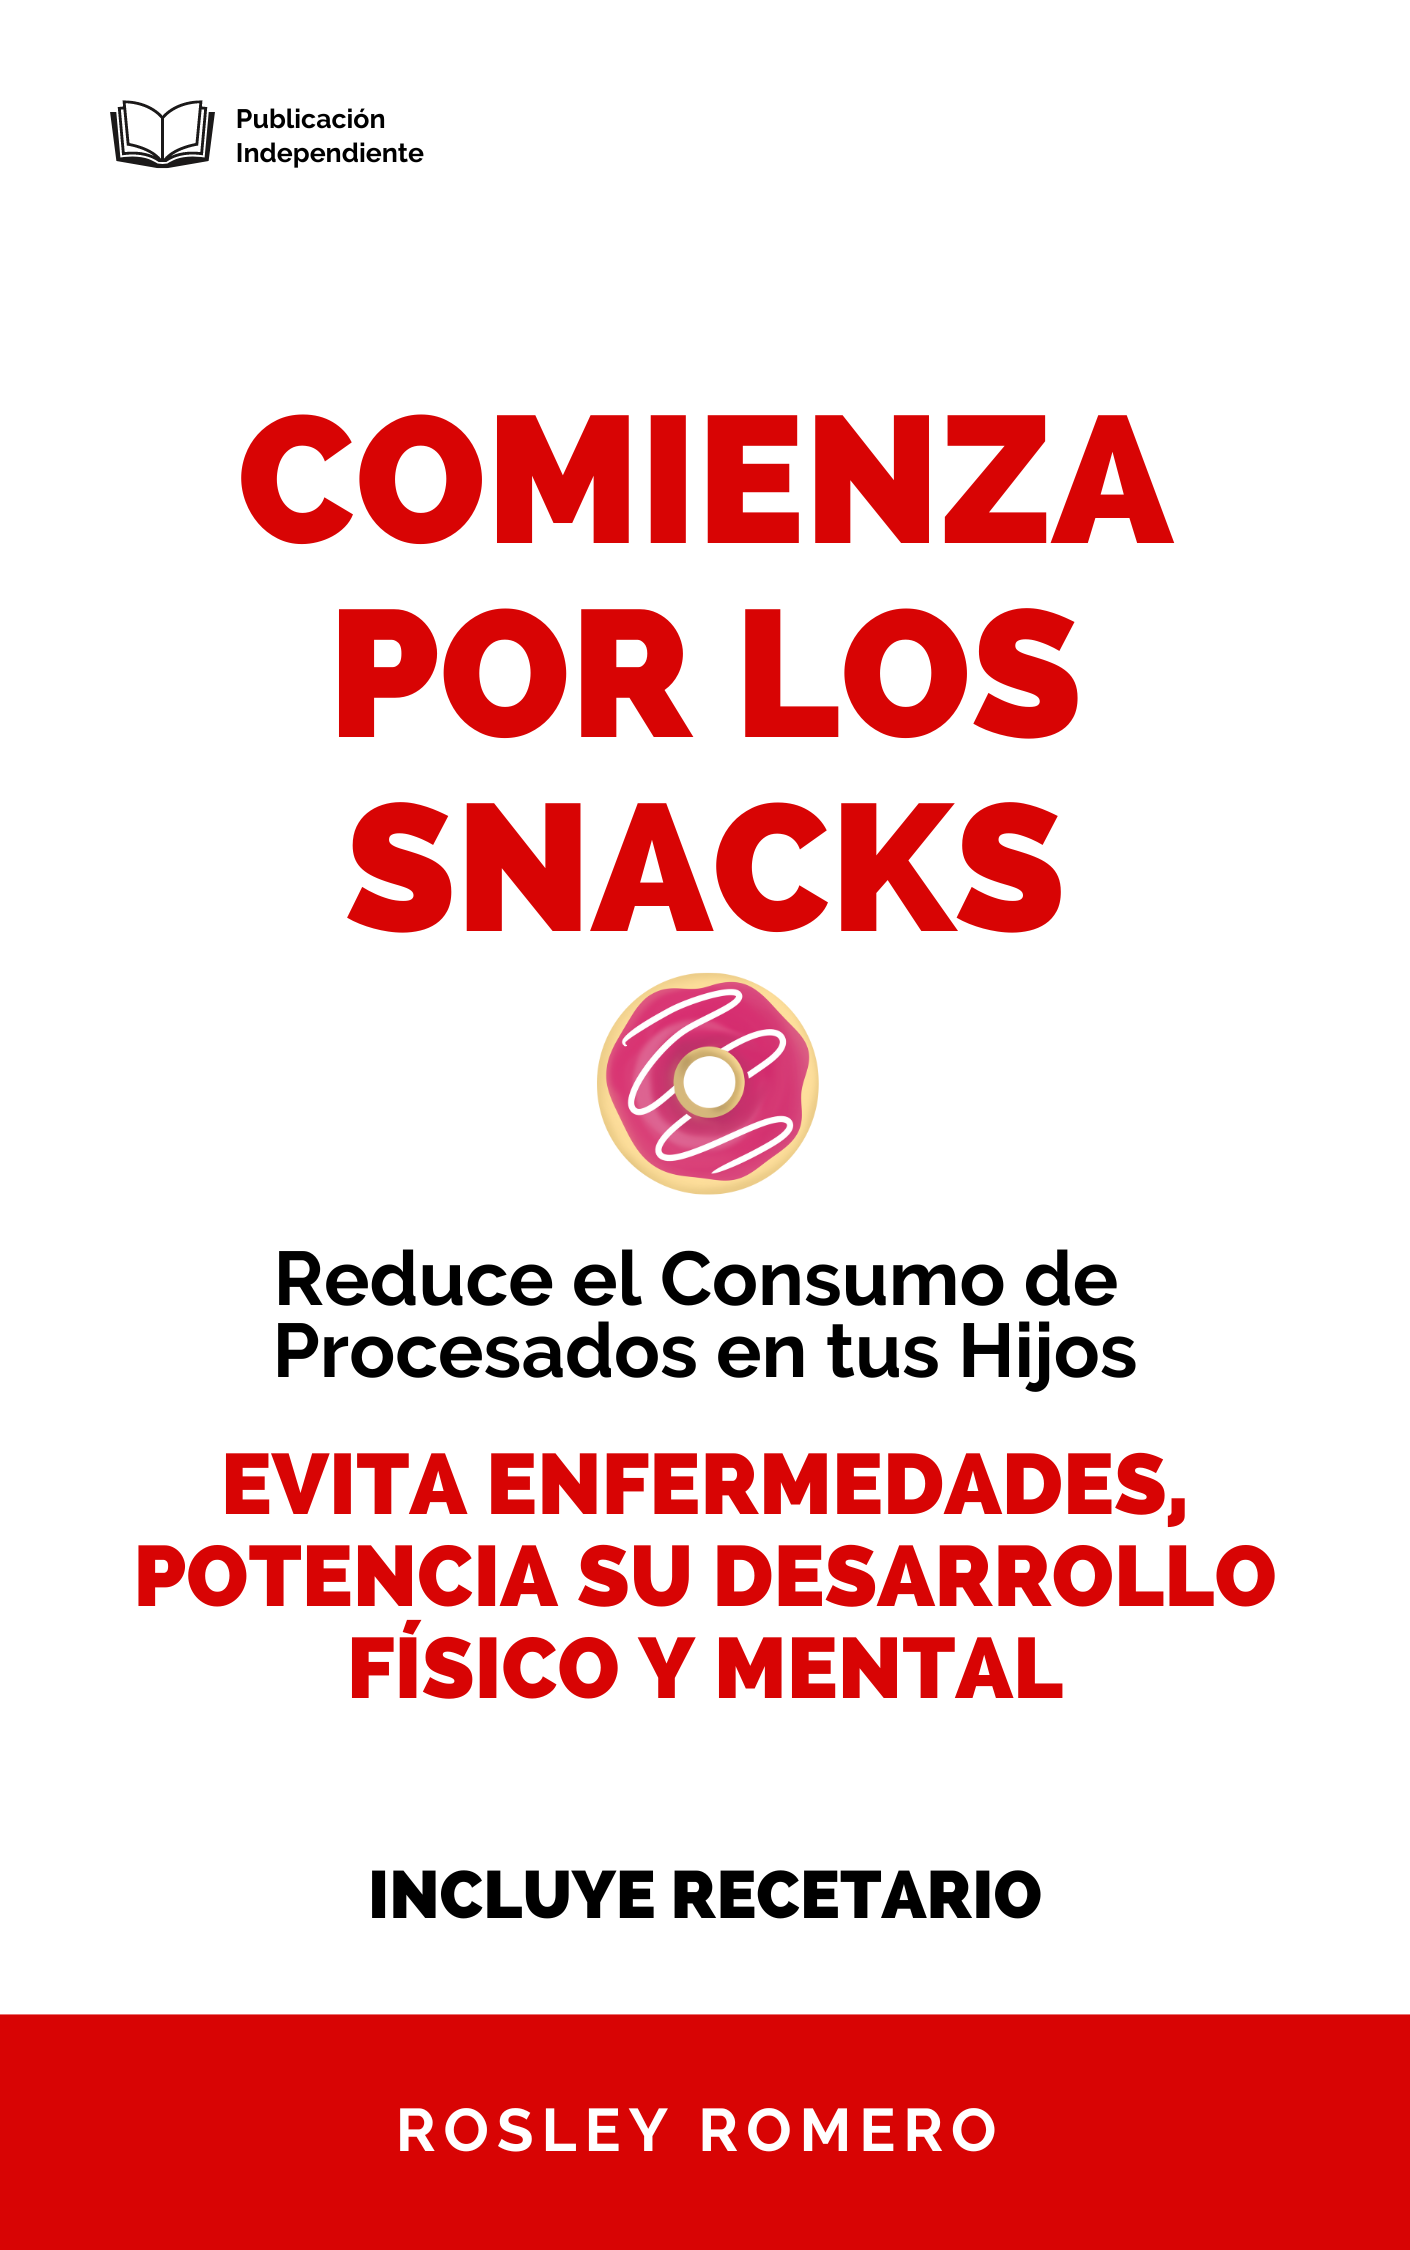
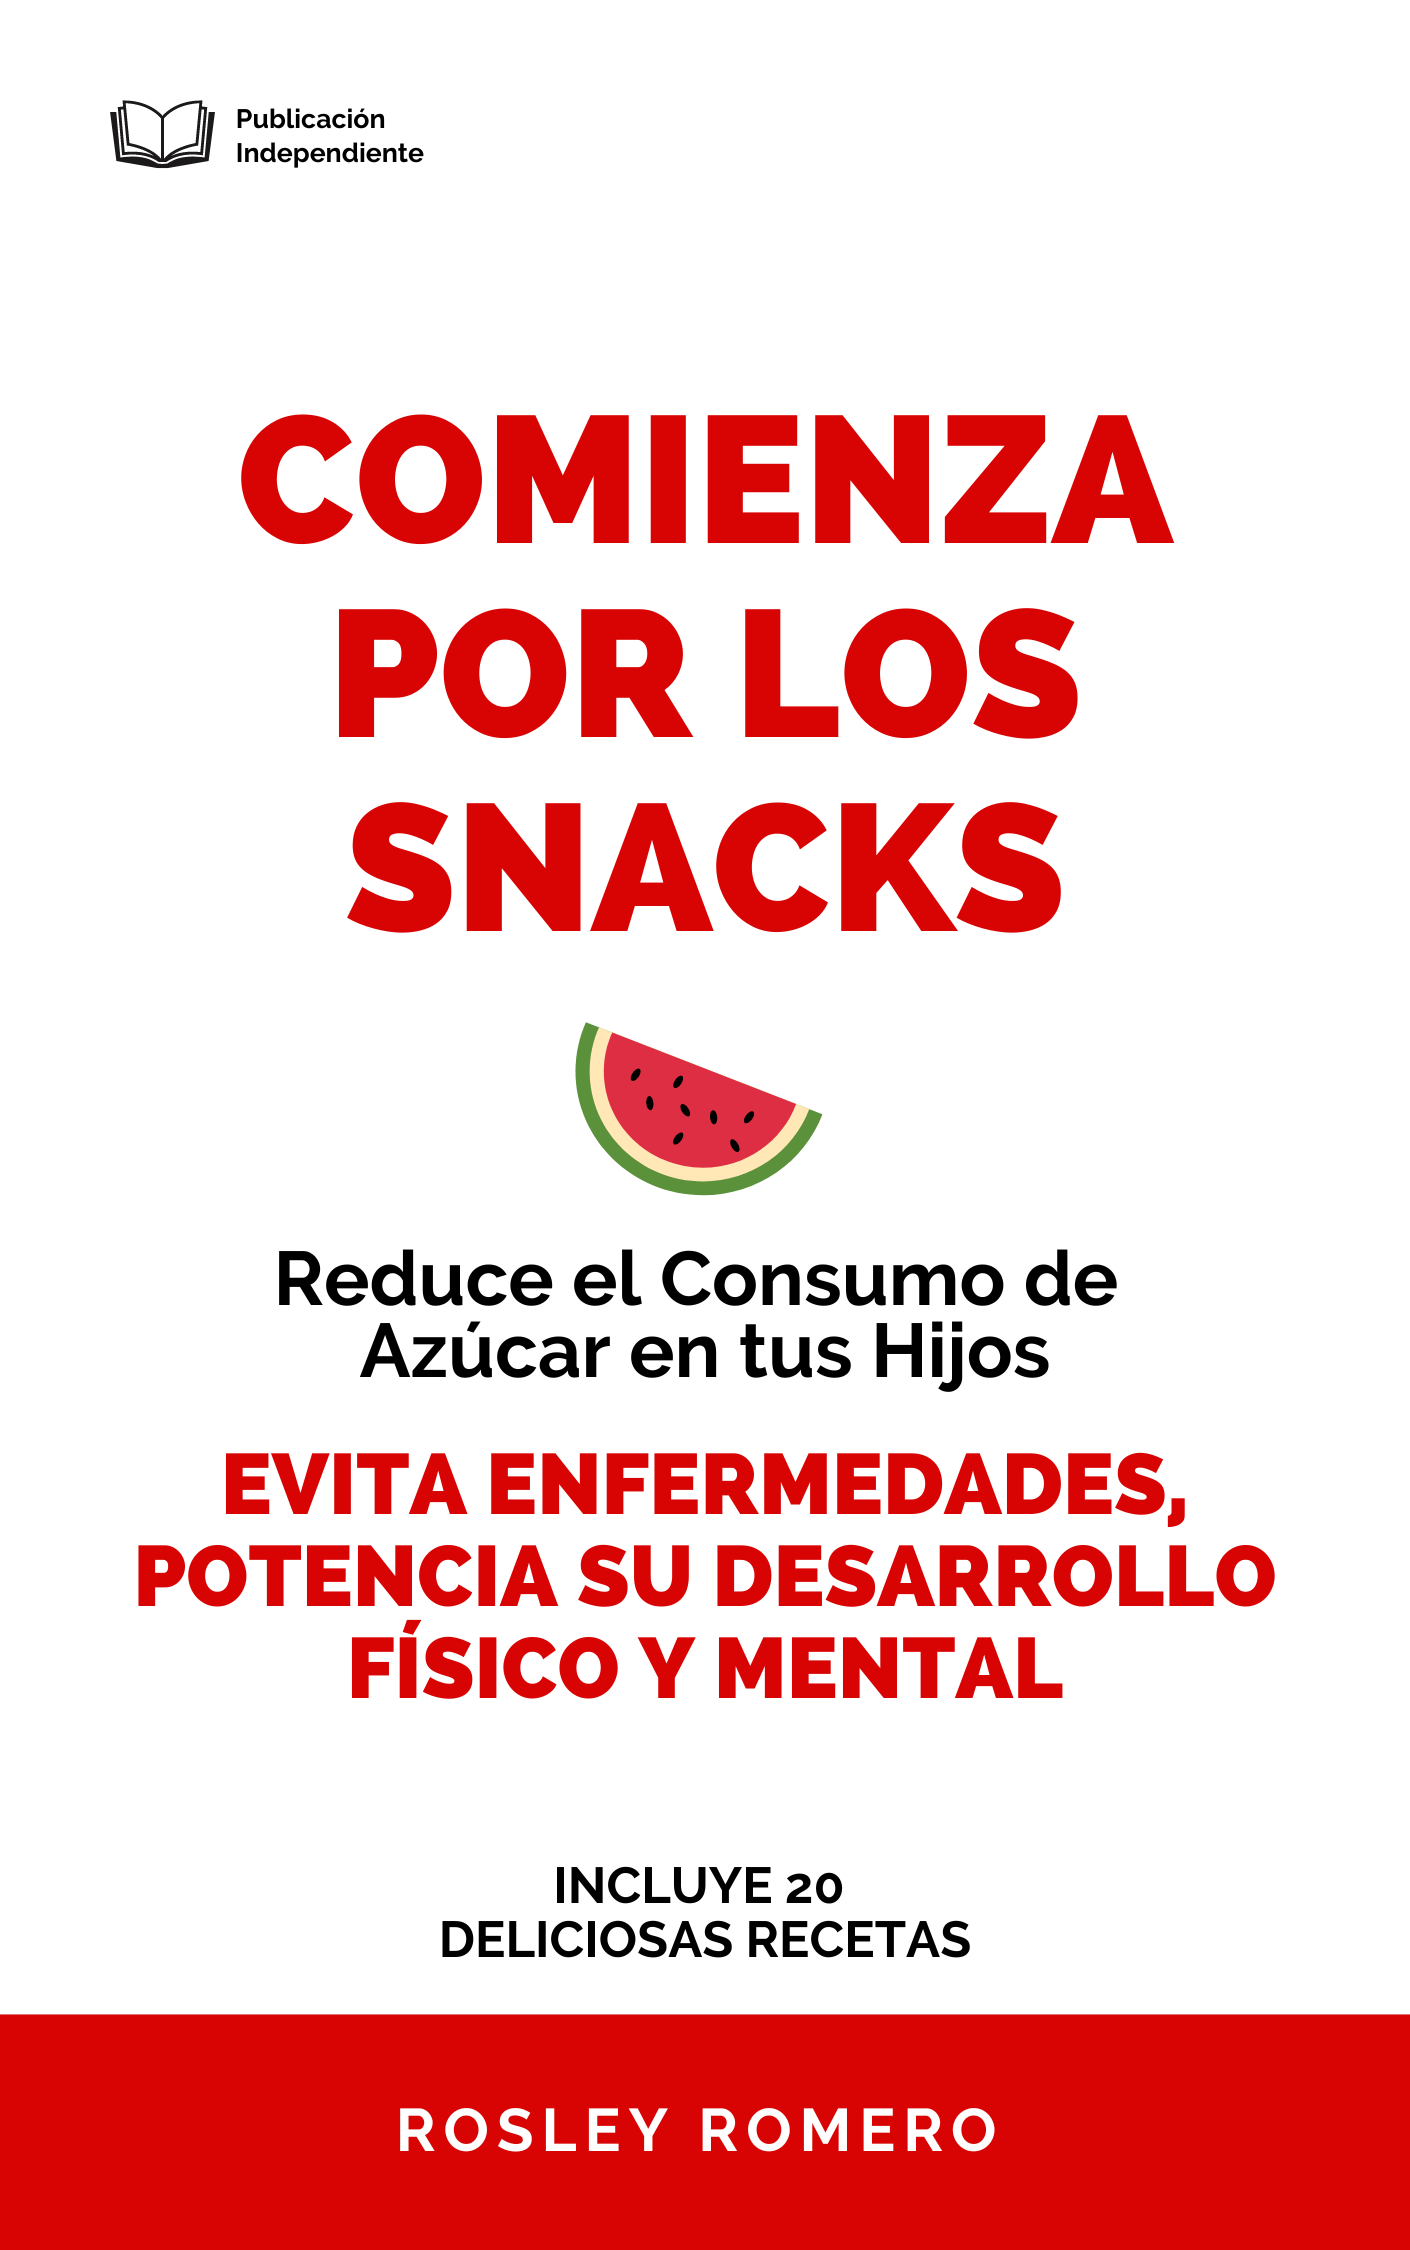
Add final cover and link to checkout

Changed region(s): [[0.2496, 0.8089, 0.7489, 0.8711], [0.1872, 0.5911, 0.8113, 0.6222], [0.4057, 0.4356, 0.5929, 0.5289]]

diff --git a/src/components/Home.js b/src/components/Home.js
@@ -9,13 +9,14 @@ const Home = () =>  {
 					{/* <p className='title-style'>cokuus</p> */}
                 <div>
                   {/* <h2 className="ls-tight font-bolder text-white py-2 px-2 first-title my-2 display-6">¿Te Preocupa que tus Hijos No Comen Saludable?</h2> */}
-                  <h1 className="ls-tight font-bolder display-4 text-white my-3">Reduce el Consumo de <span class="first-title">Procesados</span> en tus Hijos con <span className="d-inline-block py-1 px-2 bg-success">Snacks Saludables</span></h1>
+                  <h1 className="ls-tight font-bolder display-4 text-white my-3"><span class="first-title">NO más Estrés</span> Durante la Comida</h1>
                   <h2 className="ls-tight font-bolder display-4 text-white mb-10 display-6">
-                  Evita Enfermedades, Potencia su Desarrollo Físico y Mental
+          Logra que tus Hijos Disfruten de los Alimentos Naturales y que <span className="d-inline-block py-1 px-2 bg-success">Coman con Placer</span>
                   </h2>
+                  <h2 style={{marginTop: "-10px"}} className="ls-tight font-bolder display-4 mb-2 text-white display-6">Comienza Mejorando los Snacks</h2>
                   <div className="mx-sm-n2">
-                      <a href="#programa" style={{marginTop: "-20px", fontWeight: "bold", position: "relative", zIndex: "100", fontSize: "20px"}} className="btn btn-lg btn-primary bg-shade-primary mx-sm-2 w-full w-sm-auto">Comprar Ebook $12</a>
-                      <p style={{color: "white", textAlign: "center"}}>Incluye Recetario</p>
+                      <a href="https://pay.hotmart.com/F78709844Q?bid=1674241976176" style={{ fontWeight: "bold", position: "relative", zIndex: "100", fontSize: "20px"}} className="btn btn-lg btn-primary bg-shade-primary mx-sm-2 w-full w-sm-auto">Comprar Ebook $15</a>
+                      <p style={{color: "white", textAlign: "center"}}>Incluye 20 Deliciosas Recetas</p>
                   </div>
                 </div>
             </div>
@@ -125,8 +126,13 @@ const Home = () =>  {
 </div>
 {/* Section 2 */}
 <div class="first-block">
-    <p class="h3 font-semibold mb-0 mt-2 text-muted">"No hay problema en consumir un postre de vez en cuando, el problema es que nuestros hijos están desayunando “postres” y consumiendo grandes cantidades de azúcar a través de la comida ultra-procesada todos los días."</p>
+    <p class="h4 font-semibold text-muted">"No hay problema en consumir un postre de vez en cuando, el problema es que nuestros hijos están desayunando “postres” y consumiendo grandes cantidades de azúcar a través de la comida ultra-procesada todos los días. Se hacen adictos al dulce y no comen alimentos reales."</p>
     <hr style={{width: "110px", height: "3px", margin: "auto", marginTop: "20px"}}/>
+</div>
+<div style={{backgroundColor: "#5C60F4", padding: "20px 0", margin: "30px 0", textAlign: "center"}}>
+<div style={{width: "70%", margin: "auto"}}>
+    <p class="h3 font-semibold mb-1 text-white">Este Ebook te enseñará a preparar e introducir snacks más saludables a tus hijos. Esto te permitirá reducir su consumo de azúcar y podrás ver como mejora su alimentación en general.</p>
+</div>
 </div>
 
 
@@ -252,7 +258,7 @@ const Home = () =>  {
                         Step 2
                     </h5> */}
                     <h1 class="ls-tight font-bolder mb-5">Promueve a comer Mejor </h1>
-                    <p class="lead text-muted">Reducir el consumo de Procesados motiva a tus hijos a comer alimentos reales y a dejar de pedir snacks que no son nutritivos.</p>
+                    <p class="lead text-muted">Reducir el consumo de ultra-procesados y dulces, motiva a tus hijos a comer alimentos reales y dejar de pedir snacks que no son nutritivos.</p>
                 </div>
                 <div class="col-lg-6">
                     <img className='hero-img' style={{marginBottom: "-50px"}} alt="cokuus_familia" src={require('../images/cokuus-familia.webp')} />
@@ -262,13 +268,24 @@ const Home = () =>  {
     </div>
 </div>
 <div>
+
+<div className='row m-auto justify-content-center container mb-4'>
+    <div className='row justify-content-center'>
+        <img className='col-lg-2' alt="recipe-1" src={require('../images/snack-saludable-1.webp')} />
+        <img className='col-lg-2'  alt="recipe-1" src={require('../images/snack-saludable-2.webp')} />
+        <img className='col-lg-2'  alt="recipe-1" src={require('../images/snack-saludable-3.webp')} />
+        <img className='col-lg-2'  alt="recipe-1" src={require('../images/snack-saludable-4.webp')} />
+    </div>
+		
+</div>
 	
 <div className='row m-auto justify-content-center'>	
   <div style={{margin:"0px auto 20px", textAlign: "center"}}>
-    <a href="#programa" style={{fontWeight: "bold", position: "relative", zIndex: "100", fontSize: "20px"}} className="btn btn-lg btn-success mx-sm-2 w-full w-sm-auto mb-6">Comprar Ebook $12</a>
-    <p style={{color: "black", marginTop: "-20px", textAlign: "center"}}>Incluye Recetario</p>
+    <a href="https://pay.hotmart.com/F78709844Q?bid=1674241976176" style={{fontWeight: "bold", position: "relative", zIndex: "100", fontSize: "20px"}} className="btn btn-lg btn-success mx-sm-2 w-full w-sm-auto mb-6">Comprar Ebook $15</a>
+    <p style={{color: "black", marginTop: "-20px", textAlign: "center"}}>Incluye 20 Deliciosas Recetas</p>
   </div>		
 </div>
+
 
 </div>
 
@@ -277,12 +294,16 @@ const Home = () =>  {
 		<h1 class="ls-tight font-bolder mb-5">Preguntas Frequentes</h1>
 		<br></br>
 		<div className='lead'>
-			<p style={{fontWeight: "bold"}}>¿Es seguro cocinar con mi peque?</p>
-			<p>Sí, tomando las medidas de precaución. Una de ellas es siempre, siempre acompañar a nuestros peques mientras cocinamos. En el taller aprenderán métodos de seguridad e higiene en la cocina.</p>
+            <p style={{fontWeight: "bold"}}>¿Por qué comenzar por los snacks?</p>
+			<p>Lo que más piden y disfrutan nuestros hijos son los snacks. Lamentablemente no son nutritivos y contienen altas cantidades de azúcares. Si reducimos la cantidad de azúcar que consumen, van a controlar su ansiedad y adicción por lo dulce. Van a dejar de llenarse con snacks y pedirán comida real.</p>
+            <p>Son además fáciles de reemplazar por opciones saludables porque puedes hacer el proceso divertido y usar opciones que siguen siendo deliciosas.</p>
+            <p>Es el primer paso, para luego comenzar a introducir comida real (vegetales, proteínas, carbohidratos).</p>
 			<br></br>
-			<p style={{fontWeight: "bold"}}>¿Me tomará mucho tiempo cocinar con mi peque y luego limpiar?</p>
-			<p>No te miento, tomará mas tiempo de lo que te toma cocinar sola sobretodo. Por eso té sugerimos hacerlo cuando tengan un poco más de tiempo para disfrutar la actividad, como el fin de semana o festivo.</p>
-			<p>Es una oportunidad para enseñarle sobre orden y trabajo en equipo. Con el tiempo se convertirá en un gran ayudante. </p>
+			<p style={{fontWeight: "bold"}}>¿Es seguro cocinar con mi peque?</p>
+			<p>Todas las recetas son seguras, puedes involucrar a tus hijos en el proceso de preparación. De hecho, es nuestra recomendación. Al involucrarlos, se motivan a comer lo que han preparado contigo.</p>
+			<br></br>
+			<p style={{fontWeight: "bold"}}>¿Cuándo comenzará a comer comida real?</p>
+			<p>Debes ser paciente en el proceso y evitar presionar a tu hijo. Al comenzar por los snacks logramos que el proceso sea más divertido y fácil. En pocos dias tu hijo comenzará a probar las preparaciones.</p>
 			<br></br>
 		</div>
 		</div>
